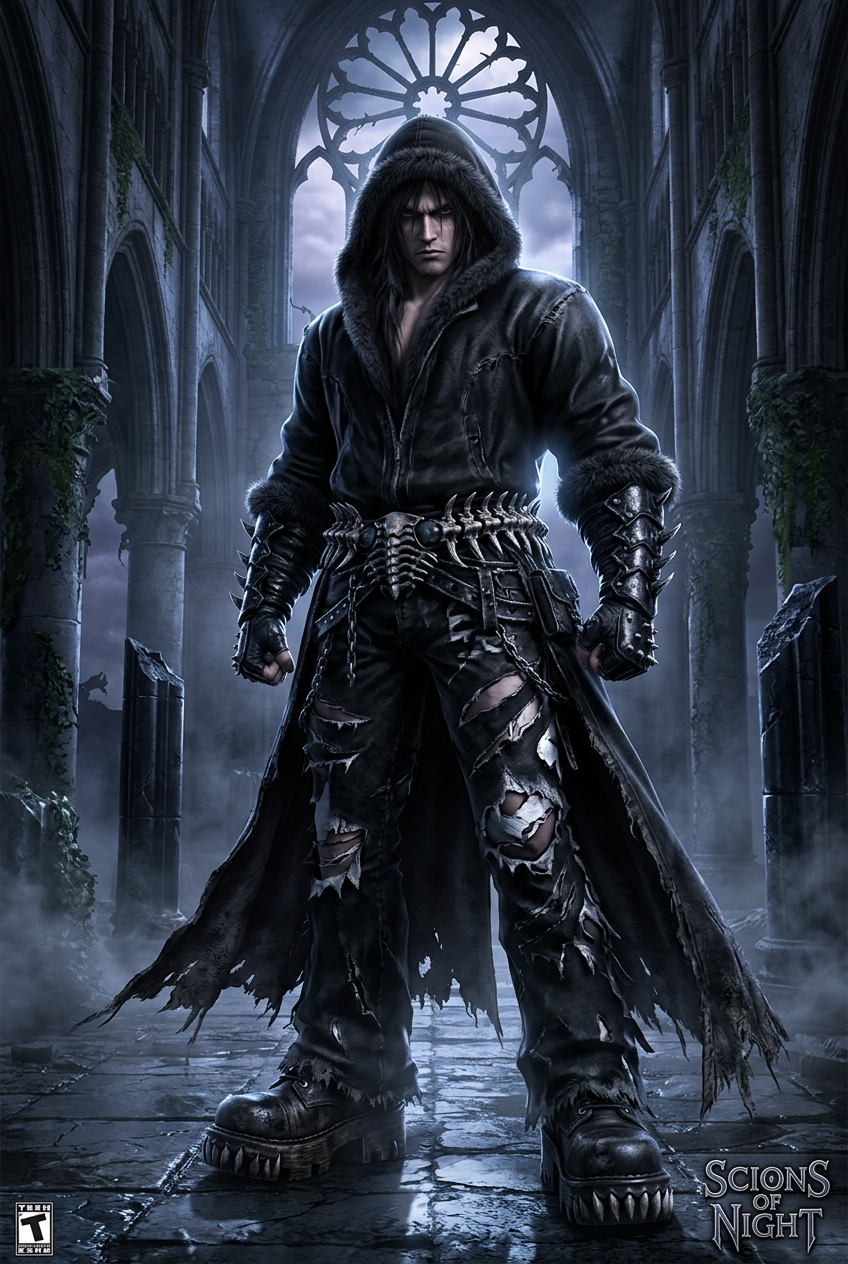
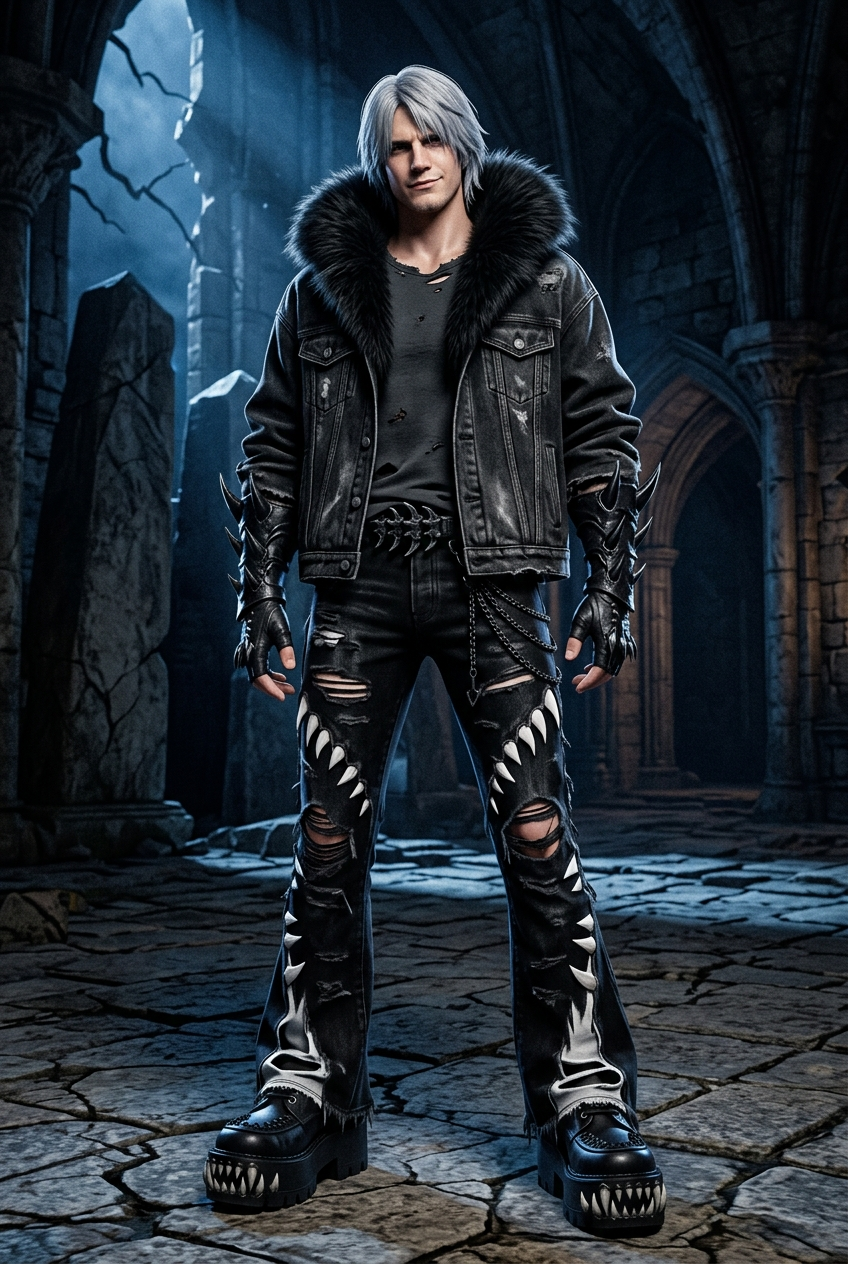
feat: dress Dante from DMC3 in custom archive outfit for Slot 01

diff --git a/src/data/archiveItems.ts b/src/data/archiveItems.ts
@@ -22,19 +22,19 @@ export const ARCHIVE_ITEMS: ArchiveItem[] = [
   {
     id: 'BS-01',
     slotNumber: 'SLOT 01 [ARCHIVED]',
-    code: 'HL-BS-01-REVENANT',
-    title: 'THE SHADOW REVENANT // FUR HOOD & SHREDDED FLARE',
-    germanTitle: 'DER SCHATTEN-REVENANT (KAPITEL 01)',
+    code: 'HL-BS-01-DANTE-DMC3',
+    title: 'DANTE (DMC3) // CATACOMB REVENANT ARCHIVE OUTFIT',
+    germanTitle: 'DANTE: DER SCHATTEN-REVENANT (KAPITEL 01)',
     category: 'OUTERWEAR',
     status: 'DOCUMENTED',
     imageUrl: './media/slot01-character-render.jpg',
     secondaryImageUrl: './media/outfit-specimen-01.png',
     season: 'AUTUMN-WINTER 2026 // CATACOMB SERIES',
-    silhouette: 'Oversized Fur-Trim Hooded Parka & Shredded Fanged Flare Pants',
-    materials: ['Raw Distressed Denim with Fang Cuts', 'Faux Wolf Fur Trim', 'Bonded Heavy Canvas', 'Articulated Chitin Leather'],
-    hardware: ['Demon Tooth Soles & Spikes', 'Silver Dragon Claw Gauntlets', 'Articulated Spine Tail Belt', 'Heavy Raccagni Zips'],
-    description: 'Полный боевой архивный аутфит, воплощающий эстетику Катакомбного Стража (Devil Jin / Archive-Core). Состоит из тяжелой черной парки с меховой оторочкой капюшона, экстремально рваных расклешенных джинсов с белыми подрезами в виде клыков, шипованных краг-перчаток, пояса в форме хребта-хвоста и монструозных ботинок на шипованной подошве.',
-    curatorNotes: 'Аутфит каталогизирован по референсу дизайнера. Деструктурированный крой и демоническая амуниция.',
+    silhouette: 'DMC3 Dante In-Game Model in Oversized Fur Hood Parka & Shredded Fanged Flared Denim',
+    materials: ['Distressed Black Washed Denim with Fanged Cutouts', 'Wolf Faux Fur Collar', 'Armored Chitin Leather', 'Hardened Vulcanized Rubber'],
+    hardware: ['Demon Tooth Creeper Soles', 'Chitinous Spiked Gauntlets', 'Vertebrae Spine Tail Belt', 'Raccagni Two-Way Zippers'],
+    description: 'Легендарный Данте из Devil May Cry 3 (оригинальный 3D-рендер эпохи PS2 / Capcom 2005) с фирменными белыми волосами и челкой, одетый в кастомный архивный стритвир-аутфит: тяжелая парка с меховой оторочкой, рваные брюки с белыми зубьями, шипованные краги и платформенные ботинки с акульими зубьями.',
+    curatorNotes: 'Точный персонаж Данте (DMC3) в полном комплекте кастомной одежды по вашему референсу.',
     colorPalette: ['#0d0d10', '#1a1a20', '#f8fafc', '#7f1d1d'],
   },
   {
